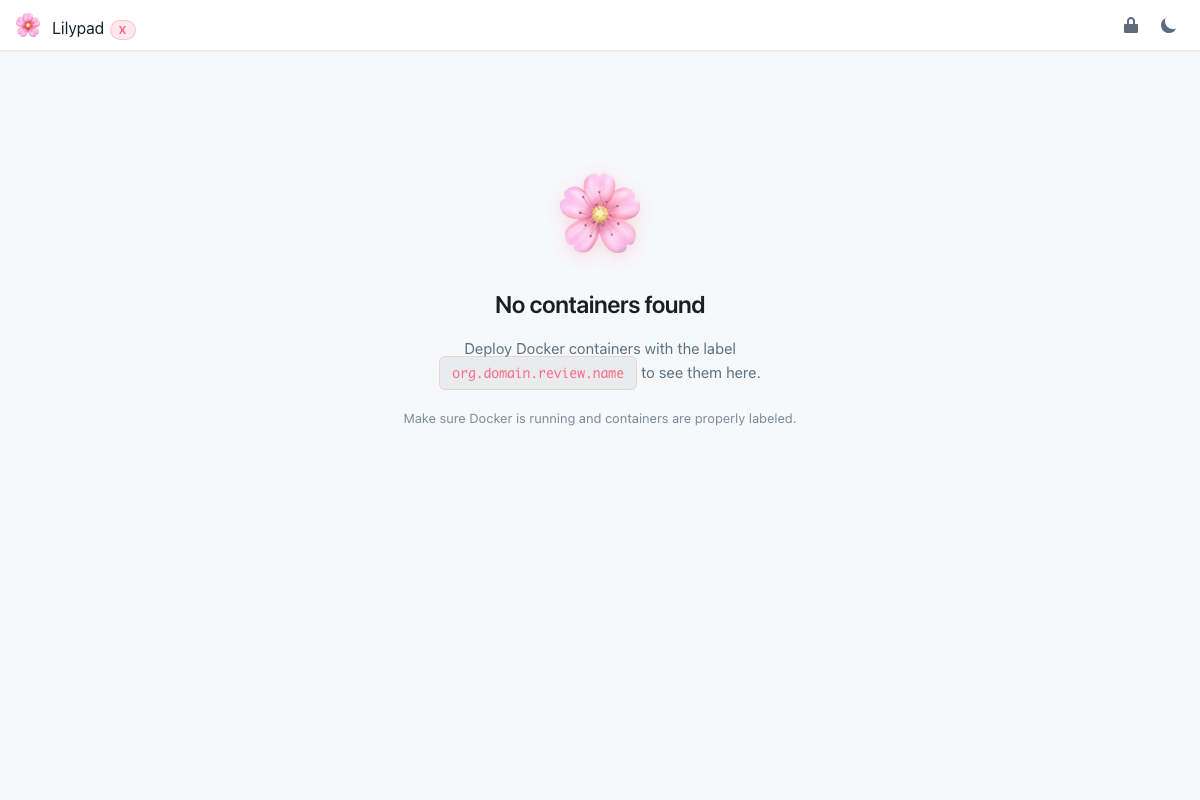
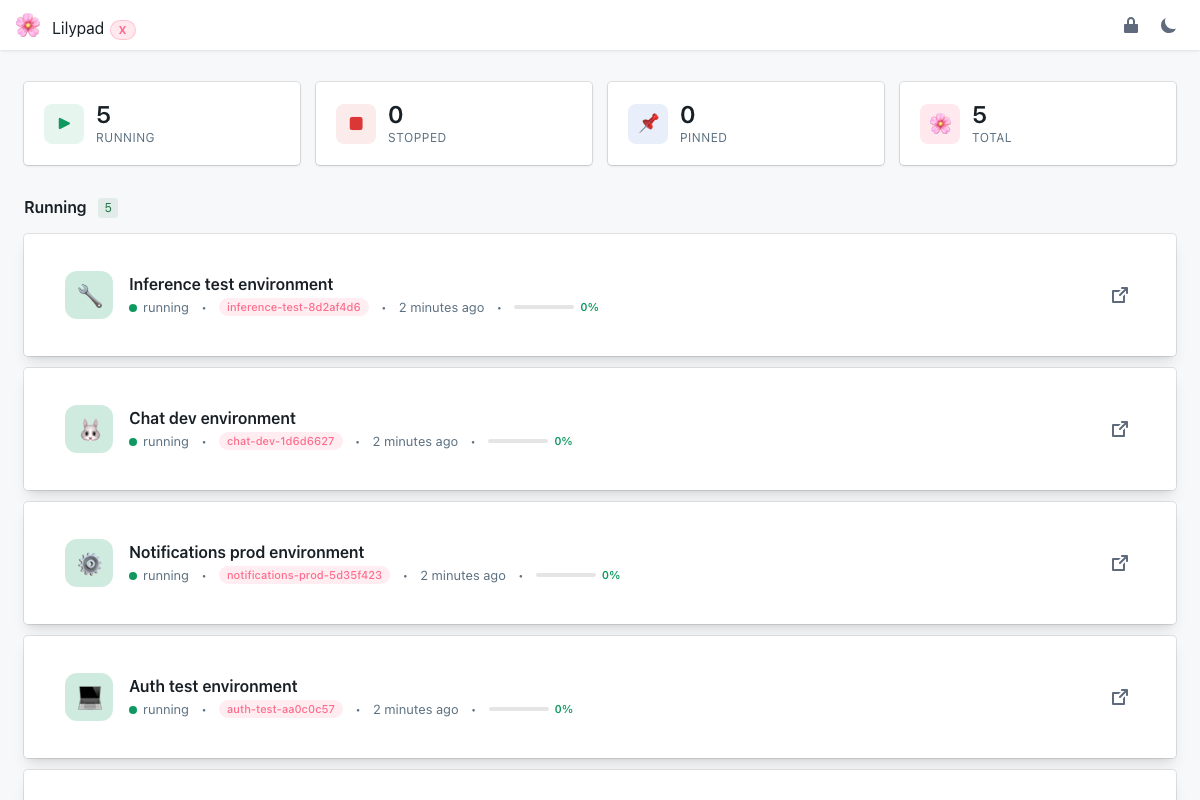
:camera_flash: Update screenshots with running containers and responsive views
Regenerate all screenshots now that containers are running:
- dashboard-light.png - Shows 5 running containers in light mode
- dashboard-dark.png - Shows 5 running containers in dark mode
- bulk-actions.png - Bulk actions with containers selected
- dashboard-mobile.png - NEW: Mobile responsive view (375x812)
- dashboard-tablet.png - NEW: Tablet responsive view (768x1024)

Update screenshots.spec.ts to include mobile and tablet viewports.
Update README with responsive screenshots section.

diff --git a/screenshots.spec.ts b/screenshots.spec.ts
@@ -5,9 +5,9 @@ const BASE_URL = "http://localhost:8080";
 const SCREENSHOT_DIR = "./screenshots";
 
 // Helper to take screenshot
-async function takeScreenshot(page, name) {
+async function takeScreenshot(page, name, viewport = { width: 1200, height: 800 }) {
   console.log(`Taking screenshot: ${name}...`);
-  await page.setViewportSize({ width: 1200, height: 800 });
+  await page.setViewportSize(viewport);
   await page.screenshot({
     path: `${SCREENSHOT_DIR}/${name}.png`,
     fullPage: false,
@@ -16,46 +16,45 @@ async function takeScreenshot(page, name) {
 }
 
 test.describe("Lilypad Screenshots", () => {
-  test("Dashboard Light Mode", async ({ page }) => {
+  test("Dashboard Light Mode - Desktop", async ({ page }) => {
     await page.goto(BASE_URL);
-    // Wait for page to load
     await page.waitForLoadState("networkidle");
-    await setTimeout(3000);
-    await takeScreenshot(page, "dashboard-light");
+    await setTimeout(5000); // Wait for containers to load
+    await takeScreenshot(page, "dashboard-light", { width: 1200, height: 800 });
   });
 
-  test("Dashboard Dark Mode", async ({ page }) => {
+  test("Dashboard Dark Mode - Desktop", async ({ page }) => {
     await page.goto(BASE_URL);
     await page.waitForLoadState("networkidle");
-    await setTimeout(2000);
+    await setTimeout(3000);
 
-    // Try to click dark mode toggle (look for moon/sun icon)
+    // Try to click dark mode toggle
     const buttons = await page.locator('button').all();
     for (const button of buttons) {
       const text = await button.textContent().catch(() => "");
-      if (text.includes("🌙") || text.includes("☀") || text.includes("moon") || text.includes("sun")) {
+      if (text.includes("🌙") || text.includes("☀") || text.toLowerCase().includes("dark")) {
         await button.click();
         await setTimeout(1000);
         break;
       }
     }
 
-    await takeScreenshot(page, "dashboard-dark");
+    await takeScreenshot(page, "dashboard-dark", { width: 1200, height: 800 });
   });
 
-  test("Bulk Actions", async ({ page }) => {
+  test("Bulk Actions - Desktop", async ({ page }) => {
     await page.goto(BASE_URL);
     await page.waitForLoadState("networkidle");
-    await setTimeout(2000);
+    await setTimeout(3000);
 
-    // Look for Edit button and click it
+    // Look for Edit button
     const editButton = page.locator('button:has-text("Edit")');
     if (await editButton.count() > 0) {
       await editButton.first().click();
       await setTimeout(1000);
     }
 
-    // Look for checkboxes and click first two
+    // Click first two checkboxes
     const checkboxes = await page.locator('input[type="checkbox"]').all();
     for (let i = 0; i < Math.min(2, checkboxes.length); i++) {
       await checkboxes[i].click();
@@ -63,6 +62,20 @@ test.describe("Lilypad Screenshots", () => {
     }
 
     await setTimeout(1000);
-    await takeScreenshot(page, "bulk-actions");
+    await takeScreenshot(page, "bulk-actions", { width: 1200, height: 800 });
+  });
+
+  test("Dashboard - Mobile", async ({ page }) => {
+    await page.goto(BASE_URL);
+    await page.waitForLoadState("networkidle");
+    await setTimeout(3000);
+    await takeScreenshot(page, "dashboard-mobile", { width: 375, height: 812 });
+  });
+
+  test("Dashboard - Tablet", async ({ page }) => {
+    await page.goto(BASE_URL);
+    await page.waitForLoadState("networkidle");
+    await setTimeout(3000);
+    await takeScreenshot(page, "dashboard-tablet", { width: 768, height: 1024 });
   });
 });

diff --git a/screenshots/README.md b/screenshots/README.md
@@ -2,33 +2,35 @@
 
 This directory contains screenshots of Lilypad in action.
 
-## Current Screenshots
+## Desktop Screenshots
 
-All screenshots are automatically generated using Playwright:
+All desktop screenshots are 1200x800 pixels:
 
-- `dashboard-light.png` - Light mode dashboard
-- `dashboard-dark.png` - Dark mode dashboard
-- `bulk-actions.png` - Bulk actions feature
+- `dashboard-light.png` - Light mode dashboard with running containers
+- `dashboard-dark.png` - Dark mode dashboard with running containers  
+- `bulk-actions.png` - Bulk actions feature with checkboxes selected
 
-## How to Regenerate
+## Responsive Screenshots
+
+- `dashboard-mobile.png` - Mobile view (375x812 - iPhone size)
+- `dashboard-tablet.png` - Tablet view (768x1024 - iPad size)
+
+## Regenerating Screenshots
 
 Screenshots are automatically generated by Playwright. To regenerate:
 
 ```bash
-# Ensure Lilypad is running
+# Ensure Lilypad is running with containers
 docker run -d -p 8080:8888 -v /var/run/docker.sock:/var/run/docker.sock ghcr.io/gaving/lilypad:latest
 
 # Run Playwright tests
 npx playwright test screenshots.spec.ts
 ```
 
-## Screenshot Specifications
-
-- **Resolution:** 1200 x 800 pixels
-- **Browser:** Chromium
-- **Format:** PNG
-
 ## Playwright Configuration
 
-See `playwright.config.ts` for test configuration.
-See `screenshots.spec.ts` for screenshot test definitions.
+- **Desktop:** 1200x800 (Chrome)
+- **Mobile:** 375x812 (iPhone X)
+- **Tablet:** 768x1024 (iPad)
+
+See `screenshots.spec.ts` for test definitions.

diff --git a/README.md b/README.md
@@ -21,9 +21,17 @@ A modern, fast web interface for managing Docker containers with real-time updat
 
 ## 📸 Screenshots
 
+### Desktop
+
 | Light Mode | Dark Mode | Bulk Actions |
 |------------|-----------|--------------|
 | ![Dashboard Light](screenshots/dashboard-light.png) | ![Dashboard Dark](screenshots/dashboard-dark.png) | ![Bulk Actions](screenshots/bulk-actions.png) |
+
+### Responsive
+
+| Mobile (375x812) | Tablet (768x1024) |
+|------------------|-------------------|
+| ![Mobile](screenshots/dashboard-mobile.png) | ![Tablet](screenshots/dashboard-tablet.png) |
 
 ## 🚀 Quick Start
 
